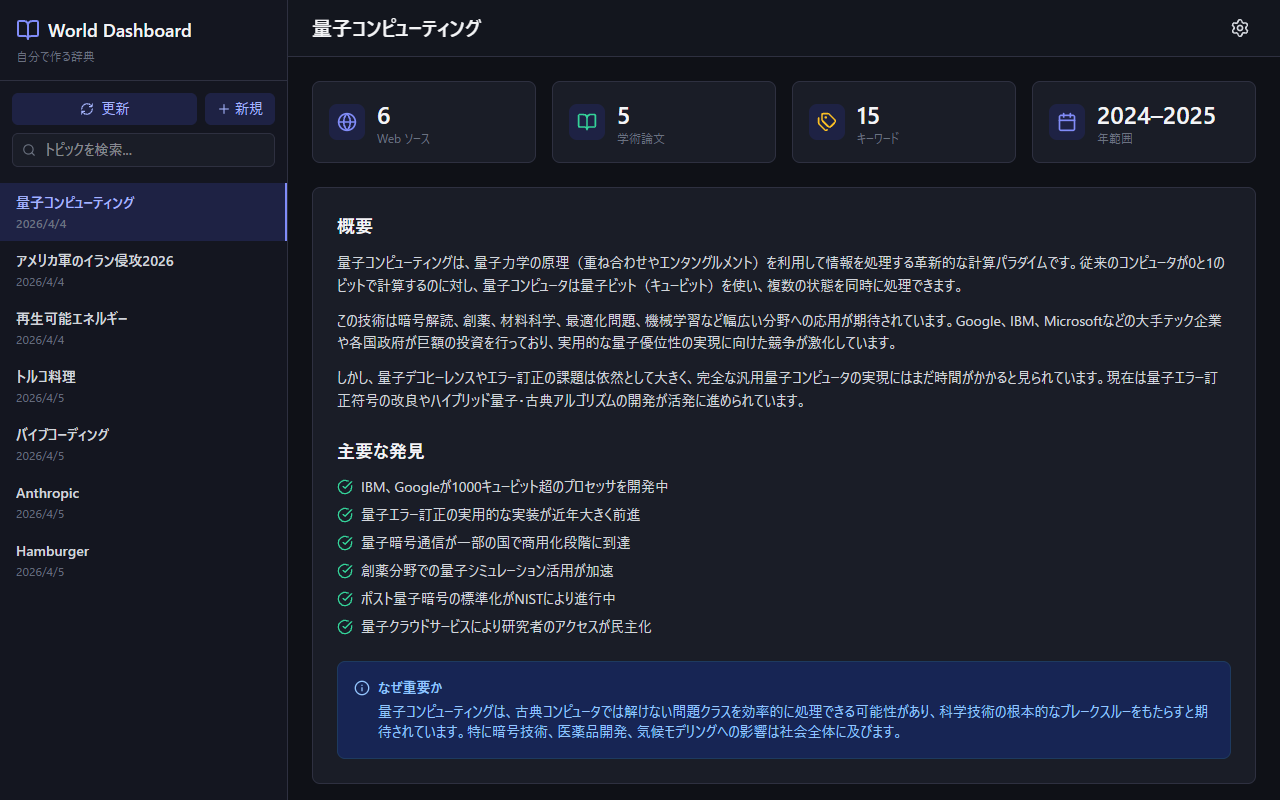
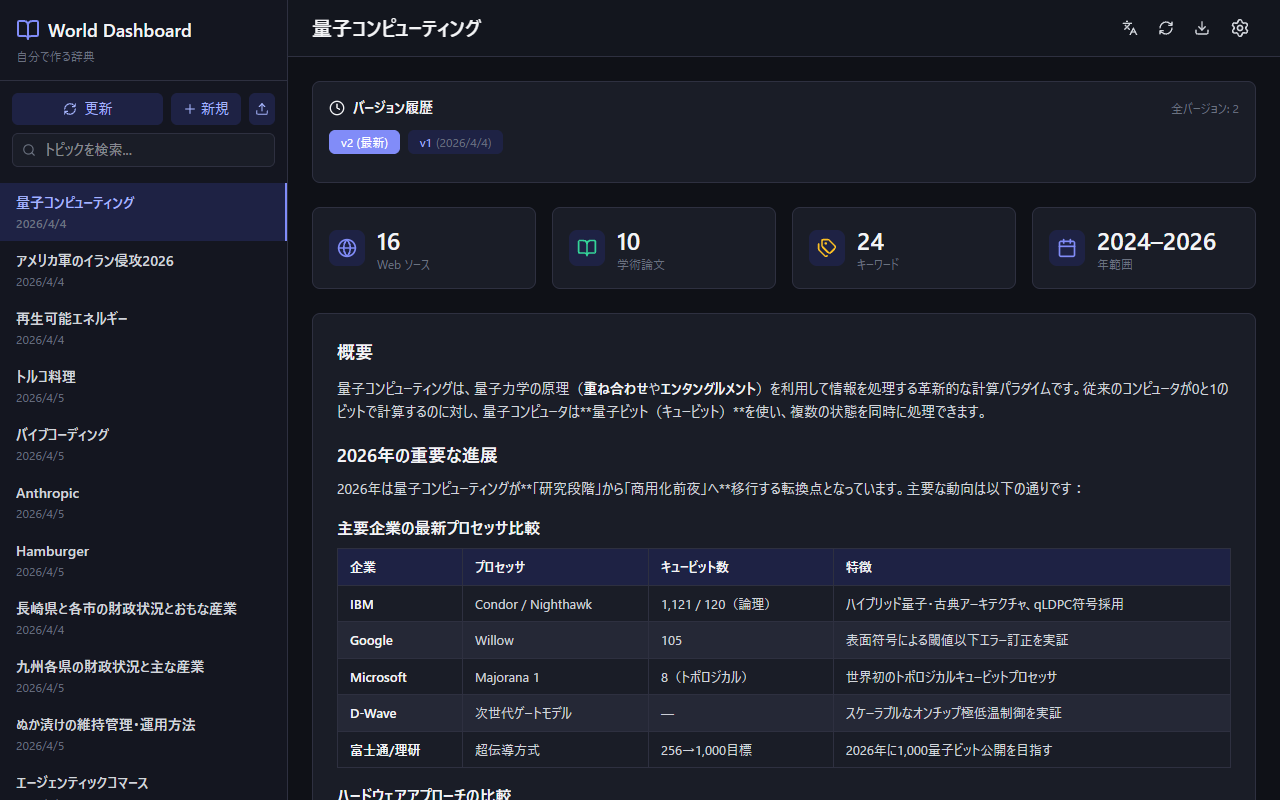
Update README, screenshots, and docs for version updates, translation, maps (#5-#7)

diff --git a/docs/README.ja.md b/docs/README.ja.md
@@ -18,6 +18,9 @@
 - **インポート/エクスポート** — ヘッダーの↓ボタンで現在のトピックをJSONとしてエクスポート、サイドバーの↑ボタンまたはJSONファイルのドラッグ&ドロップでインポート
 - **柔軟なスキーマ** — `meta.topic`と`meta.slug`のみ必須、他のフィールドはすべて任意。テーマ別データ用の拡張システム（地図、タイムライン、表、チャート、プロフィール）
 - **リッチ表示** — 概要と論文要約でMarkdownレンダリング（表、太字、見出し、リスト）。表・チャート（棒/折れ線/円グラフ、Recharts使用）・タイムライン用の拡張レンダラー
+- **バージョン管理付き更新** — 既存トピックを最新情報で更新しつつ、バージョン履歴を保持。過去のバージョンはそのまま閲覧可能。事実が変わった場合の修正も追跡
+- **文化対応翻訳** — 6つの対応言語にトピックを翻訳。文化的差異を自動評価し、単純な逐語訳を超えた翻訳を実現。文化的文脈が異なる場合は補足Web検索を実施
+- **拡張チャート＆マップ** — 7種類のチャート（棒、折れ線、円、面、レーダー、散布図、積み上げ棒）をマルチシリーズ対応。Leaflet/OpenStreetMapによるマーカー・ポップアップ付きインタラクティブ地図
 
 ## 技術スタック
 
@@ -27,6 +30,7 @@
 | スタイリング | Tailwind CSS 4 |
 | Markdown | react-markdown + remark-gfm |
 | チャート | Recharts |
+| 地図 | Leaflet + react-leaflet |
 | アイコン | Lucide React |
 | AIエージェント | Claude Code CLI |
 | 論文検索 | Semantic Scholar API (無料) |
@@ -59,7 +63,9 @@ npm run dev
 5. サイドバーから過去のトピックに切替可能
 6. **ドリルダウン** — キーワードや提案をクリックして関連トピックを調査
 7. **エクスポート** — ヘッダーの↓でJSONダウンロード、**インポート** — サイドバーの↑またはJSONファイルをドラッグ&ドロップ
-8. ヘッダーの ⚙ アイコンからテーマ・言語を変更
+8. **更新** — 更新ボタン（↻）をクリックしてトピックを最新情報にリフレッシュ
+9. **翻訳** — 翻訳ボタンをクリックしてトピックを別の言語に変換
+10. ヘッダーの ⚙ アイコンからテーマ・言語を変更
 
 ## ライセンス
 

diff --git a/docs/README.fr.md b/docs/README.fr.md
@@ -18,6 +18,9 @@
 - **Import/Export** — Bouton exporter (↓) dans l'en-tete telecharge le sujet courant en JSON ; bouton importer (↑) dans la barre laterale ou glissez-deposez des fichiers JSON
 - **Schema Flexible** — Seuls `meta.topic` et `meta.slug` sont obligatoires ; tous les autres champs sont optionnels. Systeme d'extensions pour les donnees thematiques (carte, chronologie, tableau, graphique, profil)
 - **Affichage Enrichi** — Rendu Markdown (tableaux, gras, titres, listes) dans l'apercu et les resumes d'articles. Renderers d'extensions pour tableau, graphique (barres/lignes/camembert via Recharts) et chronologie
+- **Mises a jour avec Gestion de Versions** — Mettez a jour les sujets existants avec de nouvelles informations tout en preservant l'historique des versions. Les versions precedentes restent intactes et consultables. Les corrections sont suivies lorsque les faits changent
+- **Traduction Culturellement Consciente** — Traduisez les sujets dans n'importe laquelle des 6 langues supportees avec evaluation automatique des differences culturelles. Va au-dela de la traduction litterale avec recherche web complementaire lorsque le contexte culturel differe
+- **Graphiques et Cartes Etendus** — 7 types de graphiques (barres, lignes, camembert, aire, radar, dispersion, barres empilees) avec support multi-series. Cartes interactives via Leaflet/OpenStreetMap avec marqueurs et popups
 
 ## Stack Technique
 
@@ -27,6 +30,7 @@
 | Styles | Tailwind CSS 4 |
 | Markdown | react-markdown + remark-gfm |
 | Graphiques | Recharts |
+| Cartes | Leaflet + react-leaflet |
 | Icones | Lucide React |
 | Agent IA | Claude Code CLI |
 | Articles | Semantic Scholar API (gratuit) |
@@ -59,7 +63,9 @@ Ouvrez http://localhost:5173 dans votre navigateur
 5. Basculez entre les sujets precedents dans la barre laterale
 6. **Drilldown** — Cliquez sur un mot-cle ou une suggestion pour rechercher un sujet connexe
 7. **Exporter** — Cliquez sur ↓ dans l'en-tete pour telecharger le JSON ; **Importer** — Cliquez sur ↑ dans la barre laterale ou glissez-deposez des fichiers JSON
-8. Changez le theme/langue via l'icone ⚙
+8. **Mettre a jour** — Cliquez sur le bouton de mise a jour (↻) pour actualiser un sujet avec les dernieres informations
+9. **Traduire** — Cliquez sur le bouton de traduction pour convertir un sujet dans une autre langue
+10. Changez le theme/langue via l'icone ⚙
 
 ## Licence
 

diff --git a/docs/README.es.md b/docs/README.es.md
@@ -18,6 +18,9 @@
 - **Importar/Exportar** — Boton de exportar (↓) en el encabezado descarga el tema actual como JSON; boton de importar (↑) en la barra lateral o arrastra y suelta archivos JSON
 - **Esquema Flexible** — Solo `meta.topic` y `meta.slug` son obligatorios; todos los demas campos son opcionales. Sistema de extensiones para datos tematicos (mapa, linea de tiempo, tabla, grafico, perfil)
 - **Visualizacion Enriquecida** — Renderizado Markdown (tablas, negrita, encabezados, listas) en la vista general y resumenes de articulos. Renderizadores de extensiones para tabla, grafico (barras/lineas/circular via Recharts) y linea de tiempo
+- **Actualizaciones con Control de Versiones** — Actualiza temas existentes con nueva informacion preservando el historial de versiones. Las versiones anteriores se mantienen intactas y navegables. Se rastrean las correcciones cuando los hechos cambian
+- **Traduccion con Conciencia Cultural** — Traduce temas a cualquiera de los 6 idiomas soportados con evaluacion automatica de diferencias culturales. Va mas alla de la traduccion literal con busqueda web complementaria cuando el contexto cultural difiere
+- **Graficos y Mapas Extendidos** — 7 tipos de graficos (barras, lineas, circular, area, radar, dispersion, barras apiladas) con soporte multi-serie. Mapas interactivos via Leaflet/OpenStreetMap con marcadores y ventanas emergentes
 
 ## Stack Tecnologico
 
@@ -27,6 +30,7 @@
 | Estilos | Tailwind CSS 4 |
 | Markdown | react-markdown + remark-gfm |
 | Graficos | Recharts |
+| Mapas | Leaflet + react-leaflet |
 | Iconos | Lucide React |
 | Agente IA | Claude Code CLI |
 | Articulos | Semantic Scholar API (gratuito) |
@@ -59,7 +63,9 @@ Abre http://localhost:5173 en tu navegador
 5. Cambia entre temas anteriores en la barra lateral
 6. **Drilldown** — Haz clic en cualquier palabra clave o sugerencia para investigar un tema relacionado
 7. **Exportar** — Clic en ↓ en el encabezado para descargar JSON; **Importar** — Clic en ↑ en la barra lateral o arrastra y suelta archivos JSON
-8. Cambia tema/idioma con el icono ⚙
+8. **Actualizar** — Clic en el boton de actualizar (↻) para refrescar un tema con la informacion mas reciente
+9. **Traducir** — Clic en el boton de traducir para convertir un tema a otro idioma
+10. Cambia tema/idioma con el icono ⚙
 
 ## Licencia
 

diff --git a/docs/README.it.md b/docs/README.it.md
@@ -18,6 +18,9 @@
 - **Importa/Esporta** — Pulsante esporta (↓) nell'intestazione scarica l'argomento corrente come JSON; pulsante importa (↑) nella barra laterale o trascina e rilascia file JSON
 - **Schema Flessibile** — Solo `meta.topic` e `meta.slug` sono obbligatori; tutti gli altri campi sono opzionali. Sistema di estensioni per dati tematici (mappa, timeline, tabella, grafico, profilo)
 - **Visualizzazione Avanzata** — Rendering Markdown (tabelle, grassetto, intestazioni, elenchi) nella panoramica e nei riassunti degli articoli. Renderer di estensioni per tabella, grafico (barre/linee/torta tramite Recharts) e timeline
+- **Aggiornamenti con Gestione Versioni** — Aggiorna argomenti esistenti con nuove informazioni preservando la cronologia delle versioni. Le versioni precedenti restano intatte e consultabili. Le correzioni vengono tracciate quando i fatti cambiano
+- **Traduzione Culturalmente Consapevole** — Traduci argomenti in una qualsiasi delle 6 lingue supportate con valutazione automatica delle differenze culturali. Va oltre la traduzione letterale con ricerca web supplementare quando il contesto culturale differisce
+- **Grafici e Mappe Estesi** — 7 tipi di grafici (barre, linee, torta, area, radar, dispersione, barre impilate) con supporto multi-serie. Mappe interattive tramite Leaflet/OpenStreetMap con marcatori e popup
 
 ## Stack Tecnologico
 
@@ -27,6 +30,7 @@
 | Stili | Tailwind CSS 4 |
 | Markdown | react-markdown + remark-gfm |
 | Grafici | Recharts |
+| Mappe | Leaflet + react-leaflet |
 | Icone | Lucide React |
 | Agente IA | Claude Code CLI |
 | Articoli | Semantic Scholar API (gratuito) |
@@ -59,7 +63,9 @@ Apri http://localhost:5173 nel browser
 5. Passa tra gli argomenti precedenti nella barra laterale
 6. **Drilldown** — Clicca su qualsiasi parola chiave o suggerimento per ricercare un argomento correlato
 7. **Esporta** — Clicca ↓ nell'intestazione per scaricare JSON; **Importa** — Clicca ↑ nella barra laterale o trascina e rilascia file JSON
-8. Cambia tema/lingua con l'icona ⚙
+8. **Aggiorna** — Clicca il pulsante di aggiornamento (↻) per aggiornare un argomento con le informazioni piu recenti
+9. **Traduci** — Clicca il pulsante di traduzione per convertire un argomento in un'altra lingua
+10. Cambia tema/lingua con l'icona ⚙
 
 ## Licenza
 

diff --git a/README.md b/README.md
@@ -35,6 +35,9 @@
 - **Import/Export** — Export button (↓) in header downloads current topic as JSON; import button (↑) in sidebar or drag & drop JSON files onto the topic list
 - **Flexible Schema** — Only `meta.topic` and `meta.slug` are required; all other fields optional. Extensions system for theme-specific data (map, timeline, table, chart, profile)
 - **Rich Display** — Markdown rendering (tables, bold, headings, lists) in overview and paper summaries. Extension renderers for table, chart (bar/line/pie via Recharts), and timeline
+- **Version-managed Updates** — Update existing topics with new information while preserving version history. Previous versions are kept intact and browsable. Corrections are tracked when facts change
+- **Culture-aware Translation** — Translate topics to any of 6 supported languages with automatic cultural difference assessment. Goes beyond word-for-word translation with supplementary web search when cultural context differs
+- **Extended Charts & Maps** — 7 chart types (bar, line, pie, area, radar, scatter, stacked bar) with multi-series support. Interactive maps via Leaflet/OpenStreetMap with markers and popups
 
 ## Tech Stack
 
@@ -44,6 +47,7 @@
 | Styling | Tailwind CSS 4 |
 | Markdown | react-markdown + remark-gfm |
 | Charts | Recharts |
+| Maps | Leaflet + react-leaflet |
 | Icons | Lucide React |
 | AI Agent | Claude Code CLI |
 | Papers | Semantic Scholar API (free) |
@@ -76,7 +80,9 @@ Open http://localhost:5173
 5. Switch between past topics in the sidebar
 6. **Drilldown** — Click any keyword or suggestion to research a related topic
 7. **Export** — Click ↓ in the header to download a topic as JSON; **Import** — Click ↑ in the sidebar or drag & drop JSON files
-8. Change theme/language via the ⚙ icon
+8. **Update** — Click the update button (↻) to refresh a topic with the latest information
+9. **Translate** — Click the translate button to convert a topic to another language
+10. Change theme/language via the ⚙ icon
 
 ## Project Structure
 

diff --git a/docs/README.zh.md b/docs/README.zh.md
@@ -18,6 +18,9 @@
 - **导入/导出** — 头部的↓按钮将当前主题导出为JSON；侧栏的↑按钮或拖放JSON文件即可导入
 - **灵活架构** — 仅 `meta.topic` 和 `meta.slug` 为必填项，其他字段均可选。扩展系统支持主题特定数据（地图、时间线、表格、图表、简介）
 - **富文本展示** — 概述和论文摘要支持Markdown渲染（表格、粗体、标题、列表）。扩展渲染器支持表格、图表（柱状图/折线图/饼图，基于Recharts）和时间线
+- **版本管理更新** — 在保留版本历史的同时用最新信息更新现有主题。历史版本完整保留可供浏览。事实发生变化时自动追踪修正
+- **文化感知翻译** — 将主题翻译为6种支持语言，自动评估文化差异。超越逐字翻译，在文化语境不同时进行补充网络搜索
+- **扩展图表与地图** — 7种图表类型（柱状图、折线图、饼图、面积图、雷达图、散点图、堆叠柱状图）支持多系列。通过Leaflet/OpenStreetMap实现带标记和弹窗的交互式地图
 
 ## 技术栈
 
@@ -27,6 +30,7 @@
 | 样式 | Tailwind CSS 4 |
 | Markdown | react-markdown + remark-gfm |
 | 图表 | Recharts |
+| 地图 | Leaflet + react-leaflet |
 | 图标 | Lucide React |
 | AI代理 | Claude Code CLI |
 | 论文 | Semantic Scholar API（免费）|
@@ -59,7 +63,9 @@ npm run dev
 5. 通过侧栏切换历史主题
 6. **深入研究** — 点击任意关键词或建议，即可研究相关主题
 7. **导出** — 点击头部↓下载主题JSON；**导入** — 点击侧栏↑或拖放JSON文件
-8. 通过 ⚙ 图标更改主题和语言
+8. **更新** — 点击更新按钮（↻）刷新主题为最新信息
+9. **翻译** — 点击翻译按钮将主题转换为其他语言
+10. 通过 ⚙ 图标更改主题和语言
 
 ## 许可证
 
